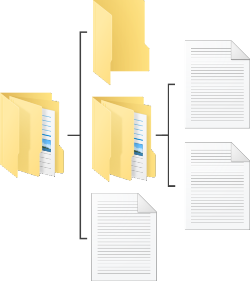
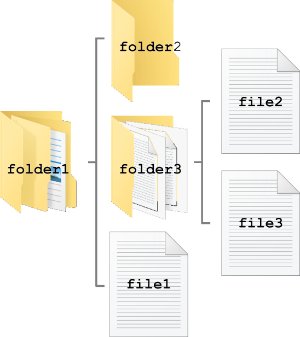
Minor edits, additional content for clarity.

diff --git a/README.md b/README.md
@@ -1,4 +1,4 @@
-# [atet](https://github.com/atet) / [learn](https://github.com/atet/learn/blob/master/README.md#atet--learn) / [**_regex_**](https://github.com/atet/learn/blob/master/regex/README.md#atet--learn--regex)
+# [atet](https://github.com/atet) / [**_regex_**](https://github.com/atet/regex/README.md#atet--regex)
 
 [![.img/logo_regex.png](.img/logo_regex.png)](#nolink)
 
@@ -38,9 +38,9 @@
 
 ## 0. Requirements
 
-* This tutorial was developed on Microsoft Windows 10 with Windows Subsystem for Linux (WSL) using Ubuntu 18.04 LTS
-* If you are using MacOS, [your Terminal program is Bash](https://en.wikipedia.org/wiki/Terminal_(macOS))
-* Most Linux distributions use or can use Bash
+* **Windows**: This tutorial was developed on Microsoft Windows 10 with Windows Subsystem for Linux (WSL) using Ubuntu
+* **Mac**: If you are using MacOS, [your Terminal program is Bash](https://en.wikipedia.org/wiki/Terminal_(macOS))
+* **Linux**: Most Linux distributions use or can use Bash
 
 [Back to Top](#table-of-contents)
 
@@ -53,6 +53,7 @@ We will use a Linux a command line interface (CLI) available on all major operat
 ### Windows 10
 
 * Windows Subsystem for Linux (WSL) is a fully supported Microsoft product for Windows 10, learn how to install it here: https://github.com/atet/wsl
+* I recommend using Ubuntu 20.04 LTS or later from the Microsoft Store
 
 ### MacOS
 
@@ -60,7 +61,7 @@ We will use a Linux a command line interface (CLI) available on all major operat
 
 ### Linux
 
-* I recommend using Ubuntu 20.04 LTS
+* I recommend using Ubuntu 20.04 LTS or later
 
 [Back to Top](#table-of-contents)
 
@@ -71,13 +72,13 @@ We will use a Linux a command line interface (CLI) available on all major operat
 ### What is Bash?
 
 * Bash is a command line interface (CLI) that allows you to use your operating system purely by text commands 
-   * This is a huge benefit over clicking buttons in a graphical user interface **especially if you have a ton of repetitive and routine tasks**
+* This is a huge benefit over clicking buttons in a graphical user interface **especially if you have a ton of repetitive and routine tasks**
 * If you're a Windows user like I am, _unlike DOS Command Prompt that is tied to Microsoft_, Windows Subsystem for Linux finally allows some cross-compatibility with Linux and MacOS
 
 ### WARNING: CLI is very powerful
 
-* With great power comes great responsibility; be vigilant of code you run so accidents don't happen
-* If this is your first experience with using a command line interface, don't be intimidated, this is worth learning
+* ***With great power comes great responsibility***; be vigilant of code you run so accidents don't happen, like accidentally erasing files you truly care about
+* If this is your first experience with using a command line interface, don't be intimidated, CLI is absolutely worth learning
 
 ### Regular Expressions
 
@@ -98,15 +99,15 @@ We will use a Linux a command line interface (CLI) available on all major operat
 
 [![.img/step03a.png](.img/step03a.png)](#nolink)
 
-* Now let's just think of the files by file name only
+* Now let's just think of the files folders by name only
 
 ```
-          |- folder2   |- file2
-folder1 --|- folder3 --|
-          |- file1     |- file3
+         ┌─ folder2  ┌─ file2
+folder1 ─┼─ folder3 ─┤
+         └─ file1    └─ file3
 ```
 
-* Let's represent each `file1-3` by their file path starting from the left to the right
+* Let's represent each `file1-3` by their file path starting from the left (i.e., `folder1`) to the right
 * The first "`/`" denotes the "root" of the file structure
 
 ```
@@ -115,11 +116,10 @@ folder1 --|- folder3 --|
 /folder1/folder3/file3
 ```
 
-
 ### Welcome to CLI
 
 * Before we dive into regular expressions, let's go over some basic commands to get around in Bash
-* When you first start your command line interface (CLI), you'll typically be greeted with something similar to this:
+* When you first start your command line interface (CLI), you'll typically be greeted with something similar to this (with your username and computer's name):
 
 ```
 atet:LAPTOP:~$ _
@@ -205,7 +205,7 @@ Rick_Astley_-_Never_Gonna_Give_You_Up.m4a
 ```
 
 * Let's **permanently delete** this file for now with `rm` ("remove")
-   * WARNING: There will be no confirmation to delete files nor is there a concept of "recycling bin" here, be very careful with `rm`
+   * WARNING: There will be no confirmation to delete files nor is there a concept of "recycling bin" here, **be very careful with "`rm`"**
 
 ```
 atet@LAPTOP:~/folder$ ls
@@ -221,7 +221,7 @@ atet@LAPTOP:~/folder$ _
 
 ## 4. Example Files
 
-* **I will now start each line with only `$`, type everything _after_ this**
+* **I will now start each line with only `$`, remember, type everything _after_ this**
 * Let's start at your home directory (a.k.a. `~`) and make a new empty directory to work from
 
 ```
@@ -373,7 +373,7 @@ john.txt:3:eddie - party all the time (remix).mp4
 ### Back to the show
 
 * Let's search for songs by both mozart OR beethoven using an extended `grep` command "`|`"
-   * "`|`" used in `grep` context between the quotations means "or", not pipe as above in Bash context
+   * "`|`" used in `grep` context between the quotations means "or", not "pipe" as above in Bash context
    * You must use the `-E` flag for use of pattern matching commands like "`|`", try without `-E` and it won't work
 
 ```
@@ -523,13 +523,14 @@ $ rm john.csv && rm jane.csv
 
 ## 8. Bigger Data
 
-* We will download a larger dataset of news articles as another example<sup>[[1]](#acknowledgments)</sup>.
+* We will download a larger dataset of news articles as another example (28 MB)<sup>[[1]](#acknowledgments)</sup>.
 
 ```
 $ wget https://raw.githubusercontent.com/atet/learn/master/regex/data/newsCorpora.zip
 ```
 
 * This is a large file and has been compressed, let's extract the file:
+   * If you do not have the `unzip` program in you Bash CLI, install with "`sudo apt-get install unzip`" (requires admin permissions)
 
 ```
 $ unzip newsCorpora.zip
@@ -570,16 +571,16 @@ $ cut -f2,4,7  -d$'\t' newsCorpora.tsv > newsCorpora2.tsv && \
   head -5 newsCorpora2.tsv | column -t -s $'\t'
 ```
 
-* I'm curious to see how many articles are from ".com" websites, since I tend to associate that with more legitimate websites
-* Let's use the regex "anchor" `$` symbol to denote that the term `.\.com` needs to occur right at the end of the line
+* I'm curious to see how many articles are from "`.com`" websites, since I tend to associate that with more legitimate websites
+* Let's use the regex "anchor" `$` symbol to denote that the term `.\.com` needs to occur only at the end of the line
 
 ```
 $ grep -Eic ".\.com$" newsCorpora2.tsv
 348971
 ```
 
-* Oh wow, so almost 75K articles not from a .com website, good to know!
-* Now I'm really curious what news outlets don't have a .com website, let's take a sample of ten sites to manually check
+* Oh wow, so almost 75K articles not from a "`.com`" website, good to know!
+* Now I'm really curious what news outlets don't have a "`.com`" website, let's take a sample of ten sites to manually check
 
 ```
 $ cut -f7 -d$'\t' newsCorpora.tsv | \
@@ -587,7 +588,7 @@ $ cut -f7 -d$'\t' newsCorpora.tsv | \
 HOSTNAME
 ```
 
-* Wait what? I just got `HOSTNAME`...**OOPS! I made a mistake**; can you figure it out?
+* Wait what? Only the word "`HOSTNAME`" was returned...**OOPS! I made a mistake**; can you figure it out?
 * I only passed the ten-line `head` of the `cut` to `grep`, not the entire data, let's do that over in the right order
 
 ```
@@ -595,7 +596,8 @@ $ cut -f7 -d$'\t' newsCorpora.tsv | \
   grep -Eiv ".\.com$" | head -10
 ```
 
-* There we go! I see a lot of websites from other countries, let's just make the decision to just include Canadian websites too (".ca") and make a new file called `newsCorpora3.tsv`
+* There we go! I see a lot of websites from other countries, let's just make the decision to just include Canadian websites too ("`.ca`") and make a new file called `newsCorpora3.tsv`
+   * Note that "`>`" operator is moving the output data into a brand new file
 
 ```
 $ grep -Eic ".\.com$|.\.ca$" newsCorpora2.tsv
@@ -623,9 +625,9 @@ $ rm newsCorpora.csv && rm newsCorpora.zip
 
 ## 9. Experiment
 
-* Regex is one of those skills that you need occasionally, but if you've done a lot at one point, it's easier to pick back up when you need it
-* I would suggest you try this tutorial a few times over to get used to the flow and experiment with new ways of slicing and dicing the data you might see online
-* Just remember to be careful with some commands like `rm`!
+* Regex is one of those skills that you need occasionally, but if you've done a lot at one point, it's easier to pick back up when you need it again
+* I would suggest you try this tutorial a few times over to get used to the flow of CLI and experiment with new ways of slicing and dicing the large amounts of data you might see online
+* Just remember to be careful with some commands like "`rm`"!
 
 [Back to Top](#table-of-contents)
 
@@ -636,9 +638,9 @@ $ rm newsCorpora.csv && rm newsCorpora.zip
 **I'll leave you with a few review topics before suggesting your next step in data analysis with regex**
 
 1. Regex can get very complex to match specific patterns, but you can break down any pattern into its components to make sense of it
-2. We've seen that John was a bit lax with his naming conventions while Jane was tidier and more consistent: In the real world, be prepared to deal with more messy data than "perfect" data
-3. When you have the opportunity to start recording your own data, use best practices to start off with organized and consistent formatting (naming conventions, date format, etc.)
-4. _Remember all the fine tuning we had to do to get the right results?_ In big data, not being able to readily see everything with might cause us to miss a few things (false positives and false negatives), but sometimes **it's the best we can do; nothing will be perfect**
+2. We've seen that John was a bit lax with his naming conventions while Jane was tidier and more consistent: In the real world, be prepared to deal with a lot more messy data than cleaner, "perfect" data
+3. When you have the opportunity to start collecting your own data, use best practices to start off with organized and consistent formatting (naming conventions, date format, etc.)
+4. _Remember all the fine tuning we had to do to get the right results?_ In big data, not being able to readily see everything might cause us to miss a few things (misspellings, invalid dates, etc.), but sometimes **it's the best we can do; nothing will be perfect**
 
 **I highly recommend learning how to use the powerful `sed` (stream editor) program, used in conjunction with `grep` to replace text after specific patterns are found: [Atet's 15 Minute Introduction to Stream Editor](https://github.com/atet/learn/blob/master/sed/README.md#atet--learn--sed)**
 
@@ -675,7 +677,7 @@ Symbol | Bash | Regex
 `*` (asterisk) | Wildcard | "Zero or more" quantifier
 `.` (period) | Current directory | Wildcard
 `\|` (pipe/bar) | Pipe operator | "Or" logical operator
-`$` | Multiple functionality</br>depending on context | "End of line" anchor
+`$` (dollar sign) | Multiple functionality</br>depending on context | "End of line" anchor
 
 [Back to Top](#table-of-contents)
 
